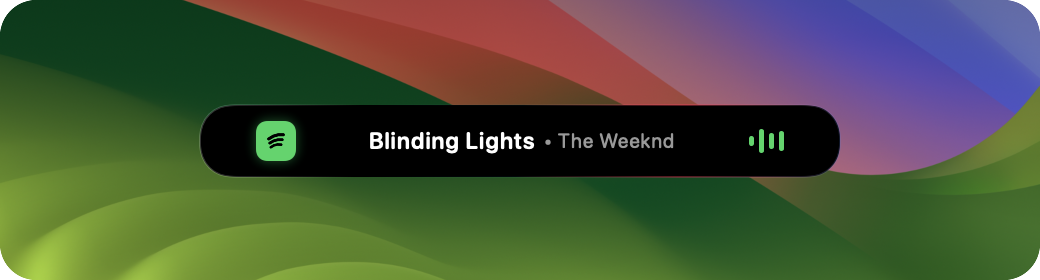
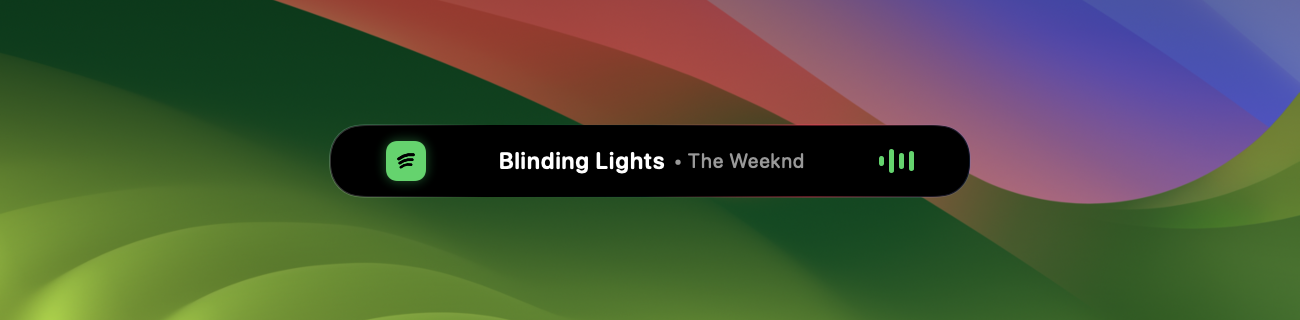
docs: update screenshot dimensions and synchronize README display widths

diff --git a/Sources/FaceIsland/Utilities/ScreenshotGenerator.swift b/Sources/FaceIsland/Utilities/ScreenshotGenerator.swift
@@ -100,7 +100,7 @@ public struct ScreenshotGenerator {
                 IslandContentProvider.shared.expansionState = .expanded(.faceID)
                 return AnyView(IslandView(isTopAttached: true, initialTab: "Settings", initialSettingsSubTab: "Permissions").id("settings_permissions"))
             }),
-            ("08_compact_notch.png", 500, 110, false, {
+            ("08_compact_notch.png", 650, 130, false, {
                 NowPlayingManager.shared.isPlaying = false
                 CalendarManager.shared.nextEvent = CalendarEventItem(
                     id: "1",
@@ -113,7 +113,7 @@ public struct ScreenshotGenerator {
                 )
                 CalendarManager.shared.countdownString = "2 sa 39 dk sonra"
                 IslandContentProvider.shared.expansionState = .compact
-                return AnyView(IslandView(isTopAttached: true, initialTab: "Nook").id("compact_notch"))
+                return AnyView(IslandView(isTopAttached: true, initialTab: "Music").id("compact_notch"))
             }),
             ("09_notch_video_player.png", 650, 430, false, {
                 NowPlayingManager.shared.title = "Apple Keynote: macOS Sequoia & Apple Intelligence"
@@ -127,7 +127,7 @@ public struct ScreenshotGenerator {
                 IslandContentProvider.shared.expansionState = .expanded(.music)
                 return AnyView(IslandView(isTopAttached: true, initialTab: "Music").id("notch_video_player"))
             }),
-            ("10_floating_capsule.png", 520, 140, true, {
+            ("10_floating_capsule.png", 650, 160, true, {
                 SettingsManager.shared.enableNotchVideoPlayer = false
                 NowPlayingManager.shared.isPlaying = true
                 NowPlayingManager.shared.title = "Blinding Lights"

diff --git a/README.md b/README.md
@@ -56,7 +56,7 @@
 
 <p align="center">
   <b>8. Kompakt Çentik Bildirim ve Geri Sayım Durumu</b><br><br>
-  <img src="assets/screenshots/08_compact_notch.png" width="400" alt="Kompakt Çentik Görünümü" />
+  <img src="assets/screenshots/08_compact_notch.png" width="600" alt="Kompakt Çentik Görünümü" />
 </p>
 
 <p align="center">
@@ -66,7 +66,7 @@
 
 <p align="center">
   <b>10. Yüzen Kapsül (Floating Capsule) Serbest Ada Modu</b><br><br>
-  <img src="assets/screenshots/10_floating_capsule.png" width="400" alt="Yüzen Kapsül Modu" />
+  <img src="assets/screenshots/10_floating_capsule.png" width="600" alt="Yüzen Kapsül Modu" />
 </p>
 
 ---
